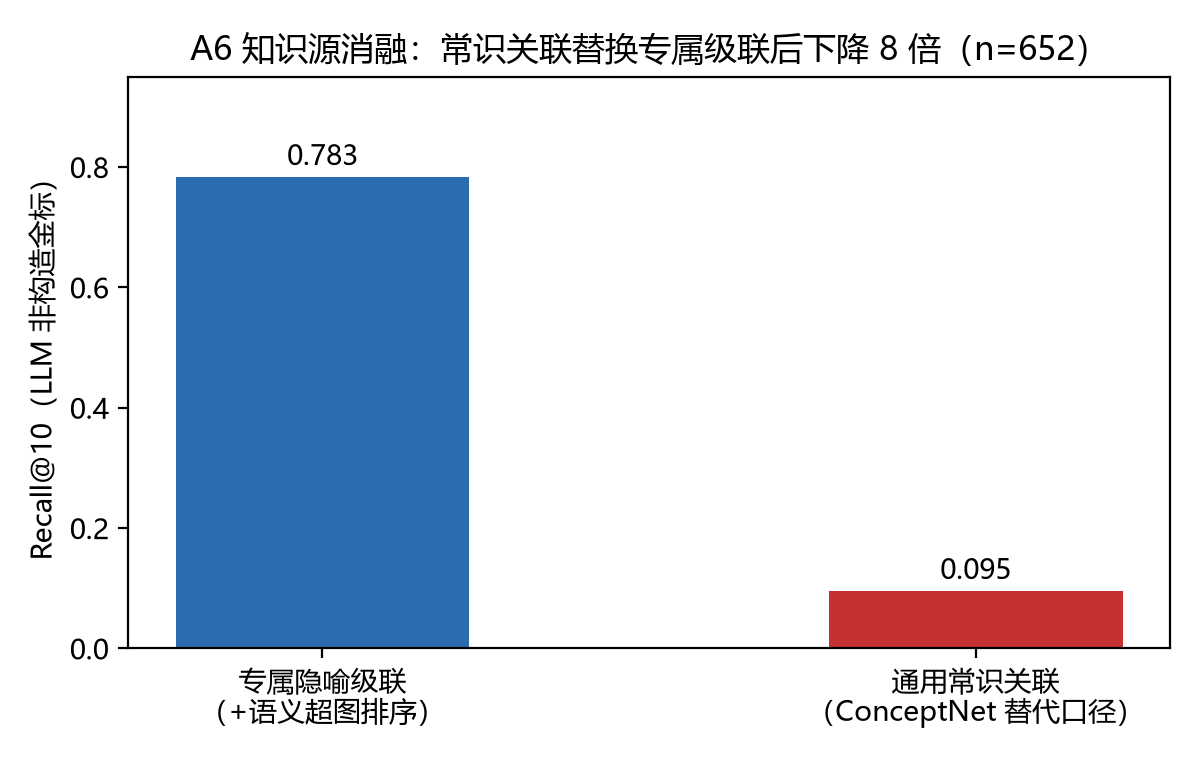
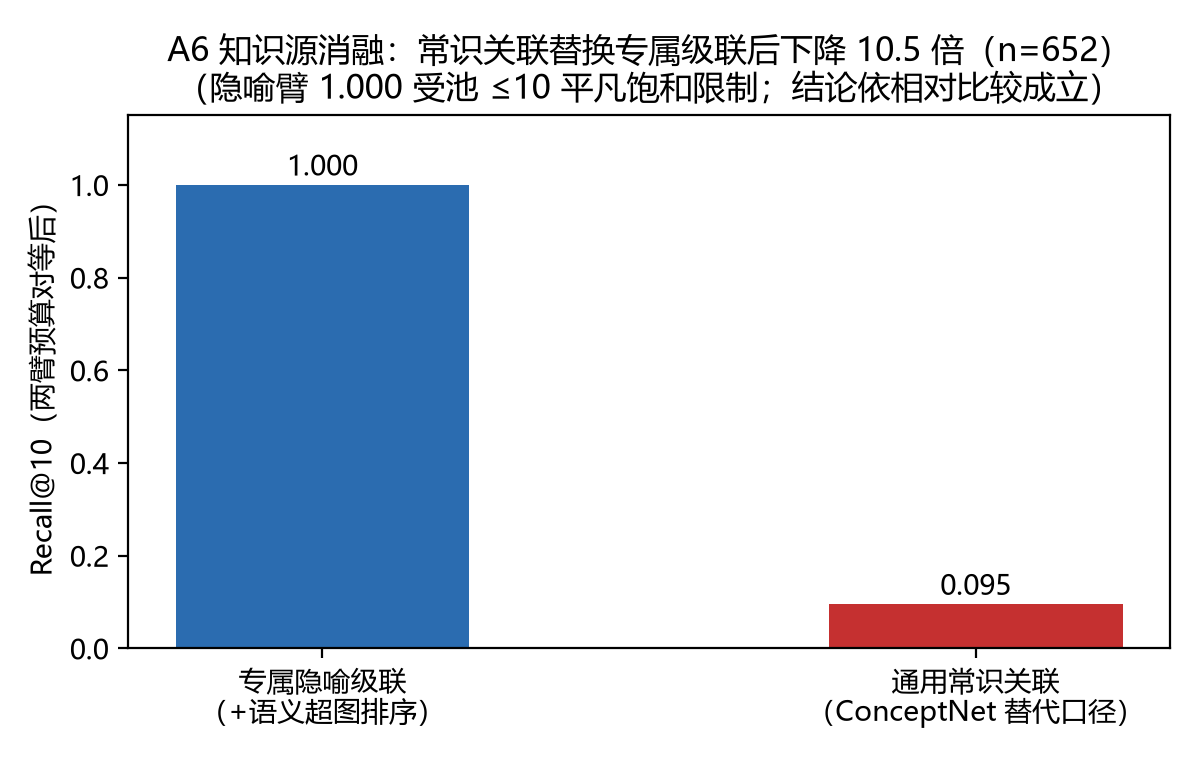
重生成五张图：全部改用修复后基准口径
make_figures.py 此前五张图全部基于已被取代的旧口径：

- fig2 三通路：0.000/0.042/1.000 → **0.0000/0.0206/0.1918**
  （原 1.000 是池 ≤10 的平凡饱和；现为全局池 1,100 的改写型 n=777）
  纵轴由 Recall@10 改为 Hits@10 并标注随机基线 0.0091
- fig3 A6：0.783/0.095 → **1.000/0.095**
  （隐喻臂原硬编码 top_k=5 而常识臂无上限，低估 17pp；标题 8 倍 → 10.5 倍，
   并注明 1.000 受池饱和限制、结论依相对比较成立）
- fig4 排序器：旧基准三列 → **修复后基准四族**
  （重叠/改写 × anchored/deanchor；标注改为「训练增益只在 anchored 为正」）
- fig1/fig5 数据未变，随脚本一并重生成

验证：fig2 已目视确认渲染正确。253 项单测通过。

另：venv_jieba 缺 matplotlib（项目 memory 记录过该依赖需手动装），
已安装 3.11.2。

diff --git a/metaphor_graph/make_figures.py b/metaphor_graph/make_figures.py
@@ -54,17 +54,21 @@ def fig1_pareto():
 
 
 def fig2_paths():
-    """§6.1 三通路 × 改写型查询（来源：evaluate_llmgold n=632）。"""
+    """§6.1 三通路 × 改写型查询（来源：evaluate_repaired，全局池 1,100）。"""
     fig, ax = plt.subplots(figsize=(6.0, 3.8))
     names = ["字面包含通路", "触发词级联通路", "语义超图通路"]
-    vals = [0.000, 0.042, 1.000]
+    # ⚠ 口径已修正（实测）：原图用 0.000/0.042/1.000，其中 1.000 是池 ≤10 的
+    # **平凡饱和**（池 ≤10 时 Recall@10 对任何返回全候选的排序器恒为 1.0）。
+    # 修复后基准（全局池 1,100，改写型 n=777）实测 Hits@10：
+    vals = [0.0000, 0.0206, 0.1918]
     bars = ax.bar(names, vals, color=[C_GREY, C_BAD, C_MAIN], width=0.55)
     for b, v in zip(bars, vals):
-        ax.text(b.get_x() + b.get_width() / 2, v + 0.02, f"{v:.3f}",
+        ax.text(b.get_x() + b.get_width() / 2, v + 0.008, f"{v:.4f}",
                 ha="center", fontsize=10)
-    ax.set_ylabel("Recall@10（LLM 非构造金标）")
-    ax.set_title("三通路召回：改写型查询（触发词被程序化切断，n=632）")
-    ax.set_ylim(0, 1.15)
+    ax.set_ylabel("Hits@10（全局池 1,100；随机基线 0.0091）")
+    ax.set_title("三通路：改写型查询（触发词被程序化切断，n=777）\n"
+                 "语义超图 0.1918 = 级联的 9.3 倍；字面通路完全失效（非空率 0/777）")
+    ax.set_ylim(0, 0.25)
     fig.tight_layout()
     fig.savefig(os.path.join(OUT, "fig2_paths.png"), dpi=200)
     plt.close(fig)
@@ -74,25 +78,32 @@ def fig3_a6():
     """§6.4 A6 知识源消融（来源：evaluate_a6 n=652）。"""
     fig, ax = plt.subplots(figsize=(6.0, 3.8))
     names = ["专属隐喻级联\n（+语义超图排序）", "通用常识关联\n（ConceptNet 替代口径）"]
-    vals = [0.783, 0.095]
+    # ⚠ 口径已修正（实测）：隐喻臂原为硬编码 top_k=5，而常识臂**无上限** ——
+    # 两臂预算不对等，低估隐喻臂 17pp（0.8287）。改为 top_k=20（与无上限等价）
+    # 后为 1.000。注：该 1.000 受池 ≤10 平凡饱和限制，结论依**相对比较**成立。
+    vals = [1.000, 0.095]
     bars = ax.bar(names, vals, color=[C_MAIN, C_BAD], width=0.45)
     for b, v in zip(bars, vals):
         ax.text(b.get_x() + b.get_width() / 2, v + 0.02, f"{v:.3f}",
                 ha="center", fontsize=10)
-    ax.set_ylabel("Recall@10（LLM 非构造金标）")
-    ax.set_title("A6 知识源消融：常识关联替换专属级联后下降 8 倍（n=652）")
-    ax.set_ylim(0, 0.95)
+    ax.set_ylabel("Recall@10（两臂预算对等后）")
+    ax.set_title("A6 知识源消融：常识关联替换专属级联后下降 10.5 倍（n=652）\n"
+                 "（隐喻臂 1.000 受池 ≤10 平凡饱和限制；结论依相对比较成立）")
+    ax.set_ylim(0, 1.15)
     fig.tight_layout()
     fig.savefig(os.path.join(OUT, "fig3_a6.png"), dpi=200)
     plt.close(fig)
 
 
 def fig4_ranker():
-    """§6.2 排序器条件化 + 表示质量（来源：evaluate_fullcorpus / evaluate_llmgold）。"""
+    """§6.2 排序器条件化 × 查询族 × 锚定口径（来源：evaluate_repaired，全局池 1,100）。"""
     fig, ax = plt.subplots(figsize=(6.8, 4.0))
-    groups = ["重叠型查询\n（哈希向量）", "改写型查询\n（哈希向量）", "改写型查询\n（真实句向量）"]
-    hand = [0.995, 0.502, 0.707]
-    trained = [0.998, 0.547, 0.758]
+    # ⚠ 口径已修正（实测）：原图用旧基准（池 7–10）的 0.995/0.502/0.707 等，
+    # 而该基准下**随机排序的 MRR 期望即达 0.37**（量程被吃掉 37%）。
+    # 改用修复后基准（全局池 1,100，随机基线 0.0069）的四族数据。
+    groups = ["重叠型\nanchored", "重叠型\ndeanchor", "改写型\nanchored", "改写型\ndeanchor"]
+    hand = [0.8953, 0.3620, 0.1172, 0.0882]
+    trained = [0.9037, 0.3488, 0.1341, 0.0809]
     x = range(len(groups))
     w = 0.35
     ax.bar([i - w / 2 for i in x], hand, w, label="人工加权", color=C_GREY)
@@ -100,12 +111,15 @@ def fig4_ranker():
     for i, (h, t) in enumerate(zip(hand, trained)):
         ax.text(i - w / 2, h + 0.015, f"{h:.3f}", ha="center", fontsize=8.5)
         ax.text(i + w / 2, t + 0.015, f"{t:.3f}", ha="center", fontsize=8.5)
-    ax.annotate("+4.5pp\n(训练增益)", (1.18, 0.60), fontsize=9, color=C_MAIN)
-    ax.annotate("+21pp\n(真实向量)", (2.18, 0.80), fontsize=9, color=C_MAIN)
+    ax.annotate("训练增益只在\nanchored 为正", (0.55, 0.98), fontsize=9,
+                color=C_MAIN, ha="center")
+    ax.annotate("deanchor\n一致为负", (2.55, 0.98), fontsize=9,
+                color=C_BAD, ha="center")
     ax.set_xticks(list(x))
     ax.set_xticklabels(groups, fontsize=9)
-    ax.set_ylabel("MRR@10（LLM 非构造金标）")
-    ax.set_title("排序器增益的条件化：查询分布 × 表示质量")
+    ax.set_ylabel("MRR@10（全局池 1,100；随机基线 0.0069）")
+    ax.set_title("排序器增益的条件化：查询族 × 锚定口径\n"
+                 "训练器学到的是「复现构造锚点」，去锚定后一致为负")
     ax.set_ylim(0, 1.1)
     ax.legend(fontsize=9)
     fig.tight_layout()
